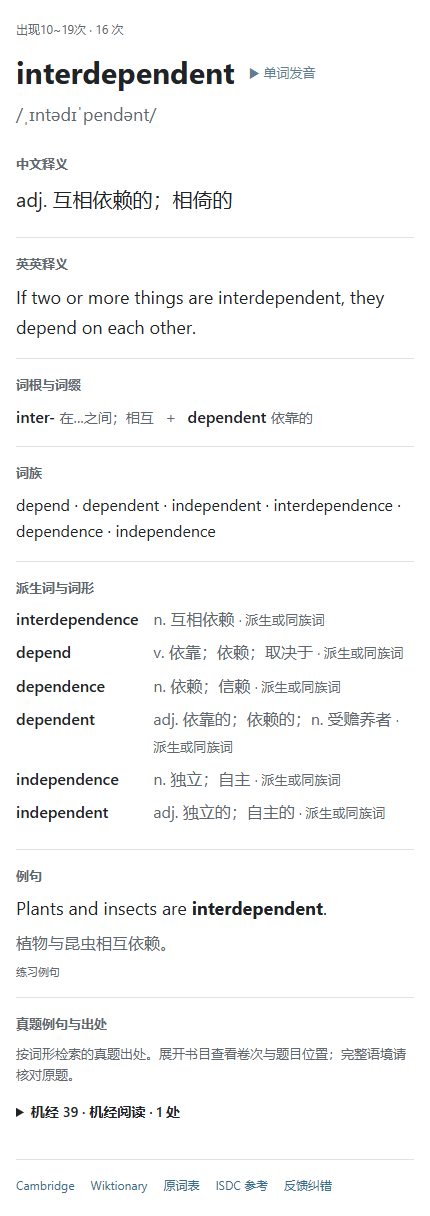
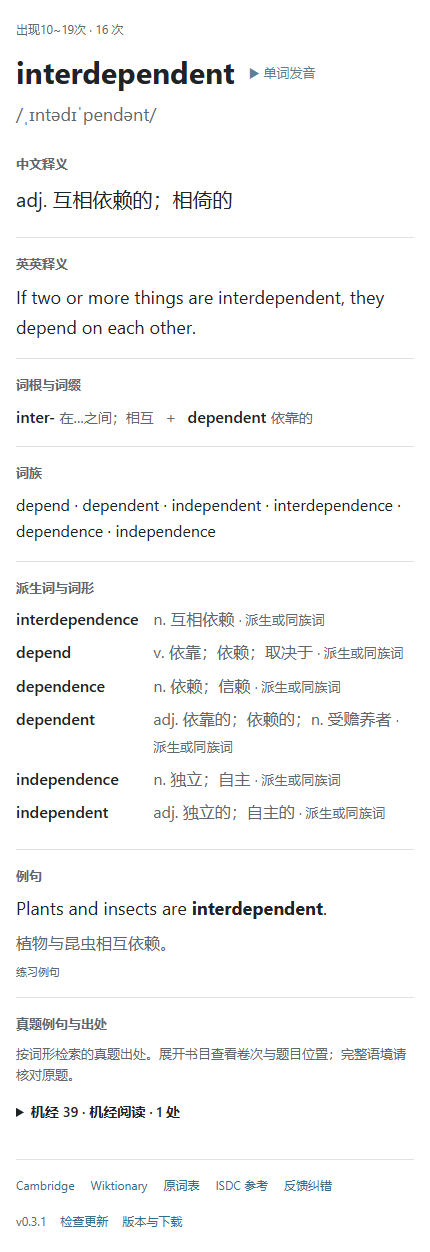
Add cached GitHub release checks to card templates

diff --git a/docs/card-preview.html b/docs/card-preview.html
@@ -64,6 +64,12 @@ a:focus-visible, summary:focus-visible { outline: 2px solid var(--accent); outli
   .en { font-size: 18px; }
   .derivative-row { grid-template-columns: minmax(88px, 32%) 1fr; gap: 10px; }
 }
+.deck-updates { display: flex; flex-wrap: wrap; align-items: baseline; gap: 6px 14px; margin-top: 16px; color: var(--muted); font-size: 12px; }
+.check-update { border: 0; padding: 0; background: none; color: var(--accent); font: inherit; cursor: pointer; }
+.check-update:disabled { color: var(--muted); cursor: default; }
+.check-update:focus-visible { outline: 2px solid var(--accent); outline-offset: 3px; }
+.update-status { flex-basis: 100%; }
+.update-status:empty { display: none; }
 .preview-audio{font-size:13px;color:#607d91;padding:4px 0}</style><body class="card"><main id="BackSide" class="CardSide back">
   <div class="card-meta" data-module="frequency">出现10~19次 · 16 次</div>
   <header class="word-header">
@@ -87,6 +93,12 @@ a:focus-visible, summary:focus-visible { outline: 2px solid var(--accent); outli
   <nav class="card-sources" data-module="sources">
     <a href="https://dictionary.cambridge.org/zhs/词典/英语-汉语-简体/interdependent">Cambridge</a><a href="https://en.wiktionary.org/wiki/interdependent">Wiktionary</a><a href="https://iscorevoc.pages.dev/">原词表</a><a href="https://isdc.pages.dev/">ISDC 参考</a><a href="https://github.com/tentyou/anki-ielts-decks/issues/new?template=correction.yml">反馈纠错</a>
   </nav>
+  <div class="deck-updates" data-module="updateCheck">
+    <span class="deck-version">v0.3.1</span>
+    <button type="button" class="check-update">检查更新</button>
+    <a class="release-link" href="https://github.com/tentyou/anki-ielts-decks/releases/latest">版本与下载</a>
+    <span class="update-status" role="status" aria-live="polite"></span>
+  </div>
 </main>
 <script>
 (function () {
@@ -103,6 +115,7 @@ a:focus-visible, summary:focus-visible { outline: 2px solid var(--accent); outli
     derivatives: true,
     examples: true,
     examExamples: true,
+    updateCheck: true,
     sources: true
   };
   var sides = document.querySelectorAll('main.CardSide');
@@ -112,6 +125,104 @@ a:focus-visible, summary:focus-visible { outline: 2px solid var(--accent); outli
       elements[j].hidden = modules[elements[j].getAttribute('data-module')] === false;
     }
   }
+})();
+
+</script>
+<script>
+(function () {
+  var current = '0.3.1';
+  var endpoint = 'https://api.github.com/repos/tentyou/anki-ielts-decks/releases/latest';
+  var storageKey = 'anki-ielts-release-check-v1';
+  var stateKey = '__ankiIeltsReleaseCheck';
+  var state = window[stateKey] || (window[stateKey] = {});
+  var elements = document.querySelectorAll('.deck-updates');
+  var element = elements[elements.length - 1];
+  if (!element || element.hidden) return;
+  var button = element.querySelector('.check-update');
+  var link = element.querySelector('.release-link');
+  var status = element.querySelector('.update-status');
+  var successTTL = 24 * 60 * 60 * 1000;
+  var failureTTL = 60 * 60 * 1000;
+
+  function version(value) {
+    var match = /^v?(\d+)\.(\d+)\.(\d+)$/.exec(value || '');
+    return match ? [Number(match[1]), Number(match[2]), Number(match[3])] : null;
+  }
+
+  function newer(candidate) {
+    var latest = version(candidate), installed = version(current);
+    if (!latest || !installed) return false;
+    for (var i = 0; i < 3; i++) {
+      if (latest[i] !== installed[i]) return latest[i] > installed[i];
+    }
+    return false;
+  }
+
+  function readCache() {
+    try {
+      var cached = JSON.parse(localStorage.getItem(storageKey));
+      if (cached && typeof cached.at === 'number') state.cache = cached;
+    } catch (_) { /* Some review webviews disable persistent storage. */ }
+    return state.cache || {};
+  }
+
+  function saveCache(cache) {
+    state.cache = cache;
+    try { localStorage.setItem(storageKey, JSON.stringify(cache)); } catch (_) {}
+  }
+
+  function render(cache, manual) {
+    if (!document.contains(element)) return;
+    button.disabled = false;
+    button.textContent = '检查更新';
+    link.textContent = newer(cache.latest) ? '发现 v' + version(cache.latest).join('.') + ' · 下载' : '版本与下载';
+    if (manual) {
+      status.textContent = cache.ok ? (newer(cache.latest) ? '下载后导入并同步。' : '当前已是最新版本。') : '暂时无法检查，请打开“版本与下载”。';
+    }
+  }
+
+  // Share one request across front/back renders in the same webview.
+  function request(done) {
+    if (state.pending) { state.pending.push(done); return; }
+    state.pending = [done];
+    var xhr, completed = false;
+    function finish(latest) {
+      if (completed) return;
+      completed = true;
+      var old = readCache();
+      var cache = { at: Date.now(), latest: latest || old.latest || '', ok: !!latest };
+      saveCache(cache);
+      var callbacks = state.pending;
+      state.pending = null;
+      for (var i = 0; i < callbacks.length; i++) callbacks[i](cache);
+    }
+    try {
+      xhr = new XMLHttpRequest();
+      xhr.open('GET', endpoint, true);
+      xhr.timeout = 6000;
+      xhr.onload = function () {
+        try {
+          var data = JSON.parse(xhr.responseText);
+          finish(xhr.status === 200 && !data.draft && !data.prerelease && version(data.tag_name) ? data.tag_name : '');
+        } catch (_) { finish(''); }
+      };
+      xhr.onerror = xhr.ontimeout = xhr.onabort = function () { finish(''); };
+      xhr.send();
+    } catch (_) { finish(''); }
+  }
+
+  function check(manual) {
+    var cache = readCache();
+    render(cache, false);
+    var age = Date.now() - (cache.at || 0);
+    if (!manual && age >= 0 && age < (cache.ok ? successTTL : failureTTL)) return;
+    button.disabled = true;
+    button.textContent = '检查中…';
+    request(function (result) { render(result, manual); });
+  }
+
+  button.onclick = function () { check(true); };
+  check(false);
 })();
 
 </script>

diff --git a/templates/update-check.js b/templates/update-check.js
@@ -1,0 +1,95 @@
+(function () {
+  var current = '__DECK_VERSION__';
+  var endpoint = 'https://api.github.com/repos/tentyou/anki-ielts-decks/releases/latest';
+  var storageKey = 'anki-ielts-release-check-v1';
+  var stateKey = '__ankiIeltsReleaseCheck';
+  var state = window[stateKey] || (window[stateKey] = {});
+  var elements = document.querySelectorAll('.deck-updates');
+  var element = elements[elements.length - 1];
+  if (!element || element.hidden) return;
+  var button = element.querySelector('.check-update');
+  var link = element.querySelector('.release-link');
+  var status = element.querySelector('.update-status');
+  var successTTL = 24 * 60 * 60 * 1000;
+  var failureTTL = 60 * 60 * 1000;
+
+  function version(value) {
+    var match = /^v?(\d+)\.(\d+)\.(\d+)$/.exec(value || '');
+    return match ? [Number(match[1]), Number(match[2]), Number(match[3])] : null;
+  }
+
+  function newer(candidate) {
+    var latest = version(candidate), installed = version(current);
+    if (!latest || !installed) return false;
+    for (var i = 0; i < 3; i++) {
+      if (latest[i] !== installed[i]) return latest[i] > installed[i];
+    }
+    return false;
+  }
+
+  function readCache() {
+    try {
+      var cached = JSON.parse(localStorage.getItem(storageKey));
+      if (cached && typeof cached.at === 'number') state.cache = cached;
+    } catch (_) { /* Some review webviews disable persistent storage. */ }
+    return state.cache || {};
+  }
+
+  function saveCache(cache) {
+    state.cache = cache;
+    try { localStorage.setItem(storageKey, JSON.stringify(cache)); } catch (_) {}
+  }
+
+  function render(cache, manual) {
+    if (!document.contains(element)) return;
+    button.disabled = false;
+    button.textContent = '检查更新';
+    link.textContent = newer(cache.latest) ? '发现 v' + version(cache.latest).join('.') + ' · 下载' : '版本与下载';
+    if (manual) {
+      status.textContent = cache.ok ? (newer(cache.latest) ? '下载后导入并同步。' : '当前已是最新版本。') : '暂时无法检查，请打开“版本与下载”。';
+    }
+  }
+
+  // Share one request across front/back renders in the same webview.
+  function request(done) {
+    if (state.pending) { state.pending.push(done); return; }
+    state.pending = [done];
+    var xhr, completed = false;
+    function finish(latest) {
+      if (completed) return;
+      completed = true;
+      var old = readCache();
+      var cache = { at: Date.now(), latest: latest || old.latest || '', ok: !!latest };
+      saveCache(cache);
+      var callbacks = state.pending;
+      state.pending = null;
+      for (var i = 0; i < callbacks.length; i++) callbacks[i](cache);
+    }
+    try {
+      xhr = new XMLHttpRequest();
+      xhr.open('GET', endpoint, true);
+      xhr.timeout = 6000;
+      xhr.onload = function () {
+        try {
+          var data = JSON.parse(xhr.responseText);
+          finish(xhr.status === 200 && !data.draft && !data.prerelease && version(data.tag_name) ? data.tag_name : '');
+        } catch (_) { finish(''); }
+      };
+      xhr.onerror = xhr.ontimeout = xhr.onabort = function () { finish(''); };
+      xhr.send();
+    } catch (_) { finish(''); }
+  }
+
+  function check(manual) {
+    var cache = readCache();
+    render(cache, false);
+    var age = Date.now() - (cache.at || 0);
+    if (!manual && age >= 0 && age < (cache.ok ? successTTL : failureTTL)) return;
+    button.disabled = true;
+    button.textContent = '检查中…';
+    request(function (result) { render(result, manual); });
+  }
+
+  button.onclick = function () { check(true); };
+  check(false);
+})();

diff --git a/templates/back.html b/templates/back.html
@@ -21,5 +21,12 @@
   <nav class="card-sources" data-module="sources">
     <a href="{{CambridgeURL}}">Cambridge</a><a href="{{WiktionaryURL}}">Wiktionary</a><a href="{{Source}}">原词表</a><a href="https://isdc.pages.dev/">ISDC 参考</a><a href="https://github.com/tentyou/anki-ielts-decks/issues/new?template=correction.yml">反馈纠错</a>
   </nav>
+  <div class="deck-updates" data-module="updateCheck">
+    <span class="deck-version">v__DECK_VERSION__</span>
+    <button type="button" class="check-update">检查更新</button>
+    <a class="release-link" href="https://github.com/tentyou/anki-ielts-decks/releases/latest">版本与下载</a>
+    <span class="update-status" role="status" aria-live="polite"></span>
+  </div>
 </main>
 <!-- MODULE_SETTINGS -->
+<!-- UPDATE_CHECK -->

diff --git a/templates/style.css b/templates/style.css
@@ -64,3 +64,9 @@ a:focus-visible, summary:focus-visible { outline: 2px solid var(--accent); outli
   .en { font-size: 18px; }
   .derivative-row { grid-template-columns: minmax(88px, 32%) 1fr; gap: 10px; }
 }
+.deck-updates { display: flex; flex-wrap: wrap; align-items: baseline; gap: 6px 14px; margin-top: 16px; color: var(--muted); font-size: 12px; }
+.check-update { border: 0; padding: 0; background: none; color: var(--accent); font: inherit; cursor: pointer; }
+.check-update:disabled { color: var(--muted); cursor: default; }
+.check-update:focus-visible { outline: 2px solid var(--accent); outline-offset: 3px; }
+.update-status { flex-basis: 100%; }
+.update-status:empty { display: none; }

diff --git a/templates/front.html b/templates/front.html
@@ -6,5 +6,12 @@
   </header>
   <p class="recall-prompt">回忆中文释义，然后翻面。</p>
   <nav class="card-sources" data-module="sources"><a href="{{CambridgeURL}}">Cambridge</a></nav>
+  <div class="deck-updates" data-module="updateCheck">
+    <span class="deck-version">v__DECK_VERSION__</span>
+    <button type="button" class="check-update">检查更新</button>
+    <a class="release-link" href="https://github.com/tentyou/anki-ielts-decks/releases/latest">版本与下载</a>
+    <span class="update-status" role="status" aria-live="polite"></span>
+  </div>
 </main>
 <!-- MODULE_SETTINGS -->
+<!-- UPDATE_CHECK -->

diff --git a/templates/module-settings.js b/templates/module-settings.js
@@ -12,6 +12,7 @@
     derivatives: true,
     examples: true,
     examExamples: true,
+    updateCheck: true,
     sources: true
   };
   var sides = document.querySelectorAll('main.CardSide');

diff --git a/scripts/common.py b/scripts/common.py
@@ -37,7 +37,11 @@ def load_enrichment():
 def compile_template(name):
     template=(ROOT/'templates'/name).read_text(encoding='utf-8-sig')
     settings=(ROOT/'templates/module-settings.js').read_text(encoding='utf-8-sig')
-    return template.replace('<!-- MODULE_SETTINGS -->','<script>\n'+settings+'\n</script>')
+    version=json.loads((ROOT/'deck-source/config.json').read_text(encoding='utf-8'))['version']
+    updates=(ROOT/'templates/update-check.js').read_text(encoding='utf-8-sig')
+    return (template.replace('<!-- MODULE_SETTINGS -->','<script>\n'+settings+'\n</script>')
+            .replace('<!-- UPDATE_CHECK -->','<script>\n'+updates+'\n</script>')
+            .replace('__DECK_VERSION__',version))
 
 
 def extra_fields(word, enrichment):

diff --git a/tests/test_data.py b/tests/test_data.py
@@ -40,6 +40,10 @@ class DeckTests(unittest.TestCase):
         back=compile_template('back.html')
         self.assertNotIn('<!-- MODULE_SETTINGS -->',back)
         self.assertIn('var modules',back)
+        self.assertNotIn('__DECK_VERSION__',back)
+        self.assertNotIn('<!-- UPDATE_CHECK -->',back)
+        self.assertIn('XMLHttpRequest',back)
+        self.assertIn('releases/latest',back)
         self.assertLess(back.index('data-module="examples"'),back.index('data-module="examExamples"'))
         _,_,m=load_sources()
         for word in ['income','legal','insurance']:

diff --git a/scripts/validate.py b/scripts/validate.py
@@ -62,7 +62,7 @@ def validate():
             if ref.get('short_quote'):quotes.append(ref['short_quote'])
     assert sum(len(re.findall(r"[A-Za-z]+",q)) for q in quotes)==9
     switches=dict(re.findall(r'(\w+): (true|false)',(ROOT/'templates/module-settings.js').read_text(encoding='utf-8-sig')))
-    assert len(switches)==11 and set(switches.values())=={'true'}
+    assert len(switches)==12 and set(switches.values())=={'true'}
     assert len(refs) == 12155
     for path in (ROOT / 'templates').iterdir():
         text = path.read_text(encoding='utf-8')

diff --git a/README.md b/README.md
@@ -4,11 +4,11 @@
 
 **[下载最新卡包](https://github.com/tentyou/anki-ielts-decks/releases/latest)** · **[反馈错误](https://github.com/tentyou/anki-ielts-decks/issues/new?template=correction.yml)**
 
-当前版本 **v0.3.0**：12,155 张卡片，17,091 句中英例句，11,785 条英英释义，1,454 个词条有构词提示或词族，3,962 个词条有派生词或词形；只包含单词离线音频。
+当前版本 **v0.3.1**：12,155 张卡片，17,091 句中英例句，11,785 条英英释义，1,454 个词条有构词提示或词族，3,962 个词条有派生词或词形；只包含单词离线音频。
 
-<img src="docs/card-preview.png" alt="v0.3.0 词典排版卡片预览" width="430">
+<img src="docs/card-preview.png" alt="v0.3.1 词典排版卡片预览" width="430">
 
-[下载 v0.3.0 卡片预览 HTML](docs/card-preview.html)（下载后用浏览器打开，预览中的发音按钮仅作占位）
+[下载 v0.3.1 卡片预览 HTML](docs/card-preview.html)（下载后用浏览器打开，预览中的发音按钮仅作占位）
 
 ## 内容
 
@@ -30,6 +30,16 @@
 沿用早期卡包的笔记 GUID、模型 ID、牌组 ID 和卡片模板序号。v0.2.0 追加 `Morphology` 与 `WordFamily`，v0.3.0 再追加 `EnglishDefinition`、`Derivatives`、`ExamExamples`，共 25 个字段，不改变旧字段次序；在独立 Anki 测试库验证升级及复习计划保留。导入仍可能覆盖你自己对原字段的修改，更新前请备份。
 
 从带例句音频的旧完整版升级不会自动删除旧媒体。需要释放空间时，在桌面 Anki「工具 → 检查媒体」中检查未使用文件后清理，再同步。
+
+## 更新检测
+
+v0.3.1 起，正反面底部显示当前模板版本、「检查更新」和「版本与下载」。默认自动查询 GitHub 最新稳定发行版，成功结果缓存 24 小时；手动点击「检查更新」可立即重新查询。有新版时，链接显示「发现 v… · 下载」。下载 `.apkg` 后仍需手动导入、更新笔记类型并同步；此功能不会自动安装或修改复习计划。旧版 v0.3.0 及以前没有检测脚本，需要先手动升级一次。
+
+检测只请求 `https://api.github.com/repos/tentyou/anki-ielts-decks/releases/latest`，不上传单词、笔记或学习记录。6 秒超时；失败后自动检测延后 1 小时，保留已知的新版提示。断网自动检查静默失败，手动检查会提示使用下载入口。GitHub 无法访问、限流或客户端禁止跨域请求时，自动检测可能不可用，「版本与下载」仍可手动打开。
+
+采用 Windows Anki、AnkiDroid 和 AnkiMobile WebView 通用的 JavaScript／XMLHttpRequest，不需要插件；缓存无法写入时使用当前 WebView 内存缓存，关闭或重建 WebView 后可能重新检查，缓存不通过 AnkiWeb 同步。浏览器模拟、实际桌面 Anki 导入已验证，尚未在 Android／iOS 真机实测。
+
+`updateCheck: false` 隐藏整个检测模块并停止该面的自动请求，正反面分别设置。当前版本取构建时写入模板的版本号，不从笔记上可能累积的旧版本标签推断；只更新模板不等于已更新词条数据。
 
 ## 校订范围
 
@@ -58,6 +68,7 @@
 | `examples` | 普通双语例句 |
 | `examExamples` | 真题短引文与出处索引 |
 | `sources` | 词典及来源链接 |
+| `updateCheck` | 版本、自动检查及手动更新入口 |
 
 例如 `englishDefinition: false` 隐藏英英释义。没有内容的栏目会自动省略，即使开关为 `true` 也不会显示空标题。隐藏音频按钮不控制 Anki 自身的自动播放；需要静音时另行关闭牌组选项中的自动播放音频。
 
@@ -80,6 +91,9 @@ python -m venv .venv
 python -m pip install -r requirements.txt
 python scripts/validate.py
 python -m unittest discover -s tests -v
+# 可选，需要 Node.js：
+node scripts/test_module_settings.cjs
+node scripts/test_update_check.cjs
 ```
 
 只有源码时可以生成不带音频的测试卡包：
@@ -100,7 +114,7 @@ python scripts/build.py
 可选的实际 Anki 升级检查（需额外安装 `anki==26.9.3`）：
 
 ```sh
-python scripts/check_upgrade.py previous.apkg dist/anki-ielts-v0.3.0.apkg
+python scripts/check_upgrade.py previous.apkg dist/anki-ielts-v0.3.1.apkg
 ```
 
 此脚本新建临时测试库，导入前后版本、模拟一张已复习卡并检查卡片 ID 与计划保留，结束后关闭并清理测试库。

diff --git a/CHANGELOG.md b/CHANGELOG.md
@@ -1,5 +1,13 @@
 # 更新记录
 
+## v0.3.1
+
+- 新增正反面更新检测，默认每日查询 GitHub 最新稳定 Release，支持手动刷新。
+- 按数字比较三段版本号，避免 0.10.0／0.9.0 的字符串排序错误。
+- 添加 `updateCheck` 显示与自动检测开关，默认开启，共 12 个模块开关。
+- 检测超时、离线或限流不打断复习；保留下载入口与已有新版提示，本地缓存失败时退回 WebView 内存。
+- 不改变词条、字段、音频和笔记标识；升级仍由用户下载导入完成。
+
 ## v0.3.0
 
 - 增加 11,785 条筛选后的英英释义，并修订 181 条重点词义。
